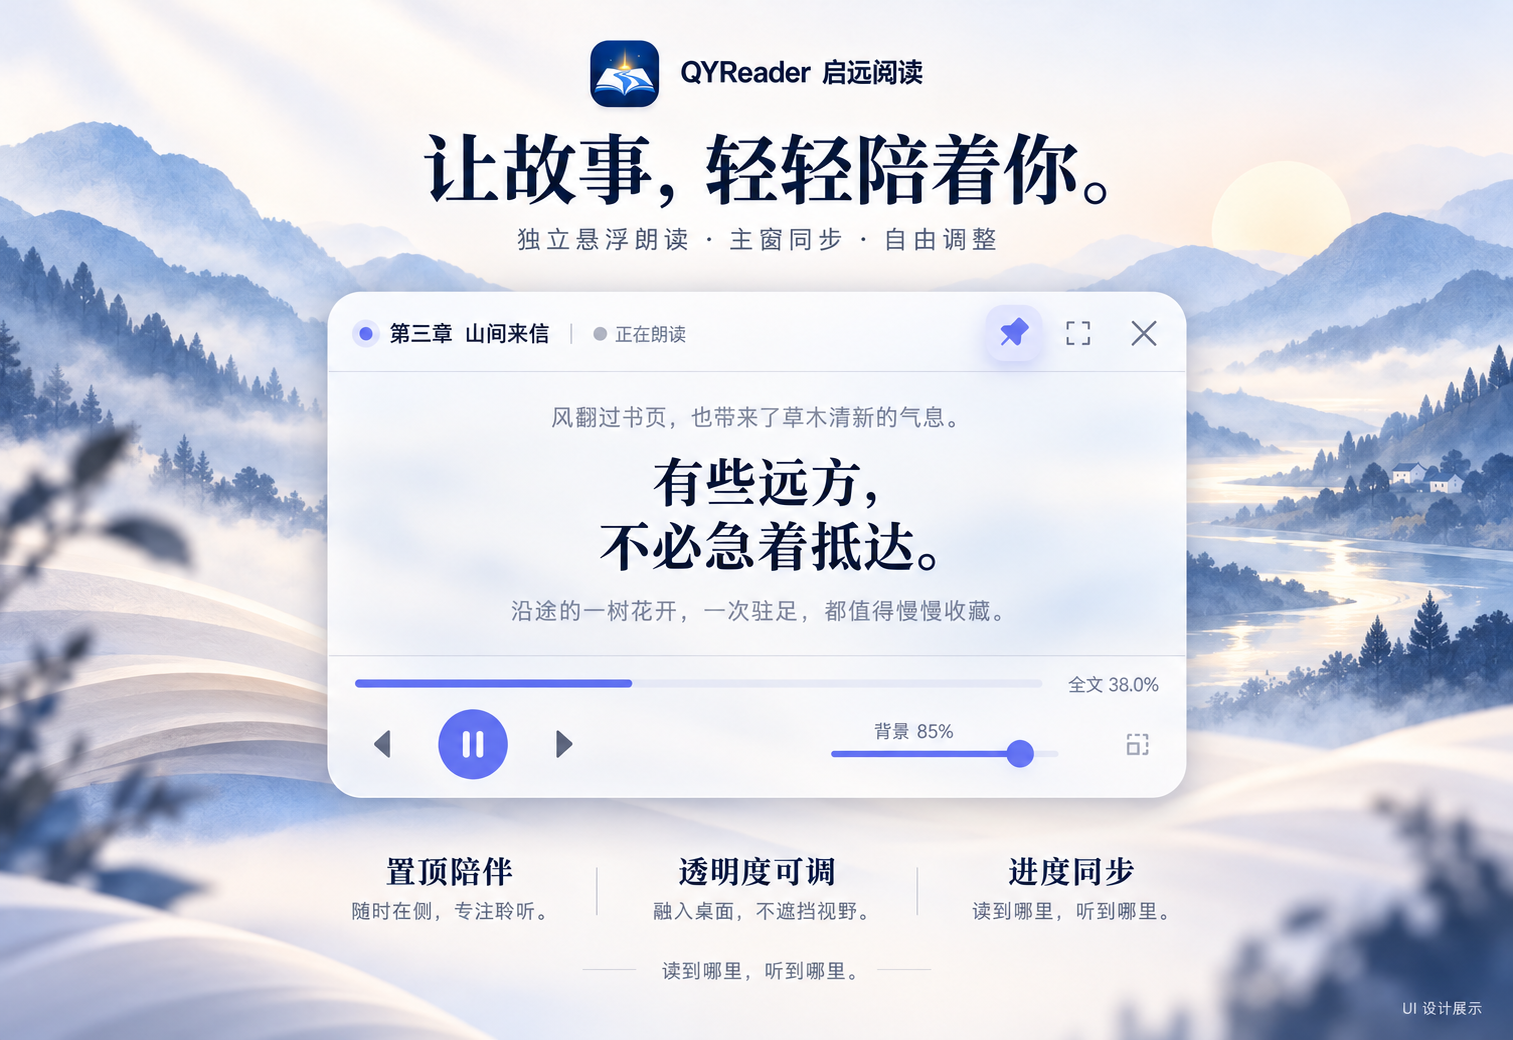
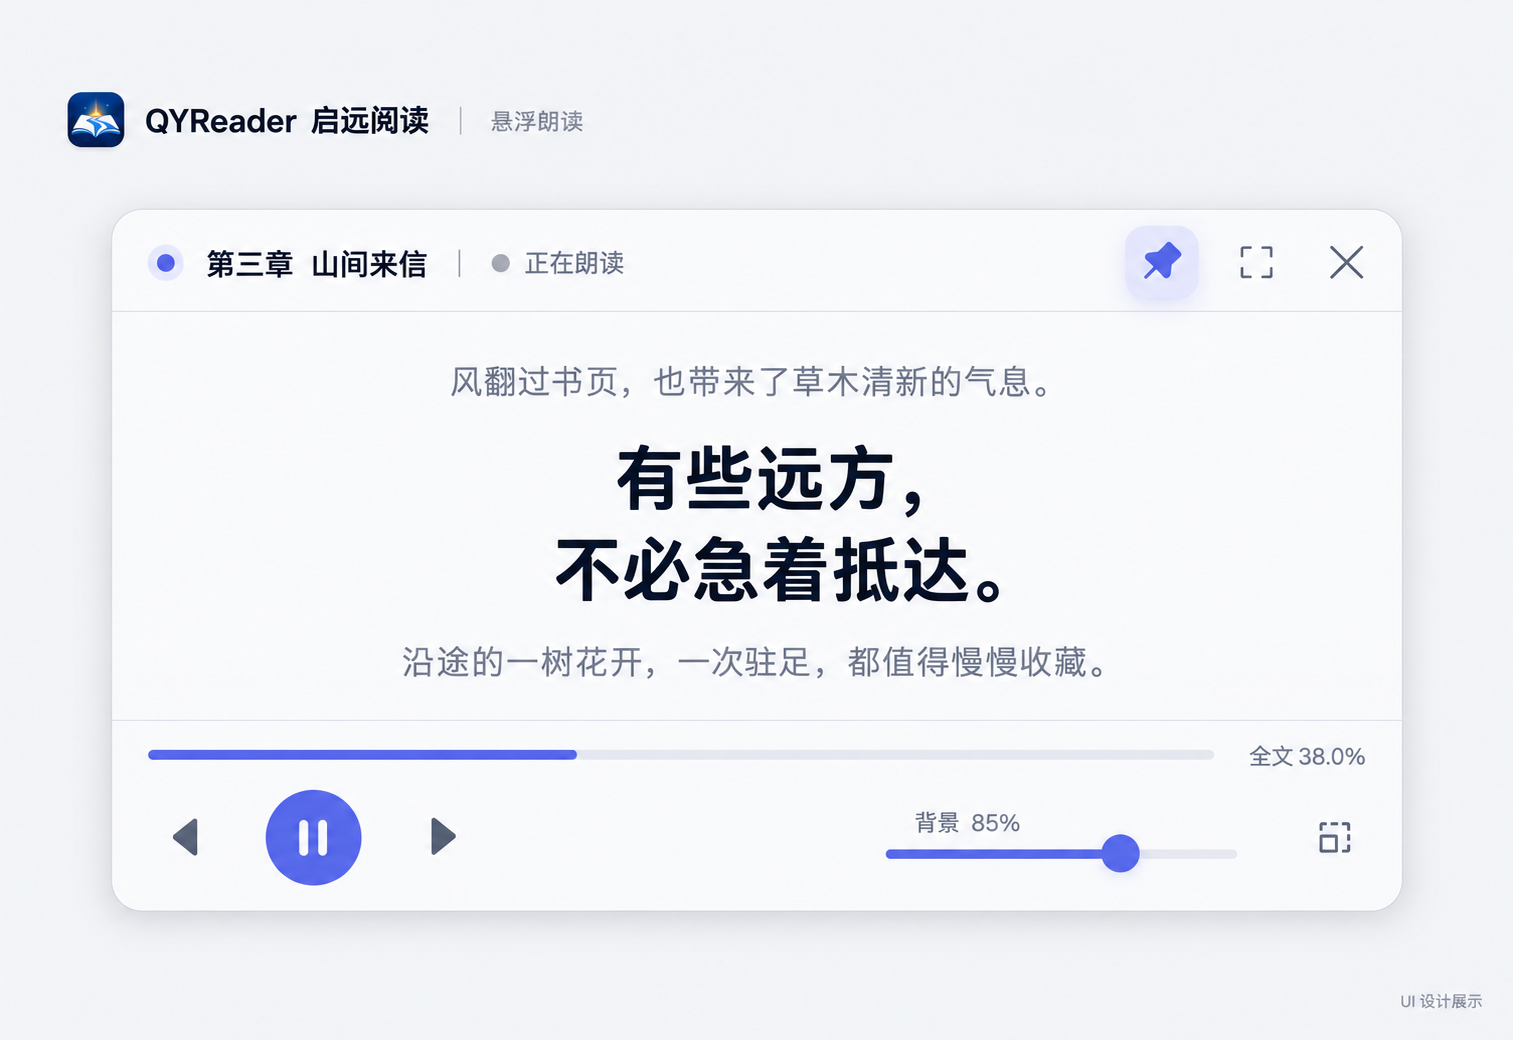
docs: simplify README showcases to highlight the app

diff --git a/docs/readme-ui-showcase-prompts.md b/docs/readme-ui-showcase-prompts.md
@@ -1,8 +1,52 @@
 # README UI 展示图生成记录
 
-生成日期：2026-10-22。使用内置 Image Gen，以原有截图、用户提供的纯正文悬浮窗截图和品牌图标为参考生成四张配套位图。
+## 当前版本：2026-10-27，以软件为主角
 
-这些图片是 macOS 风格的 UI 概念展示，并非当前 Windows 版本的实机截图。本次只更新展示图片与中英文 README，未实现图中的界面调整。
+根据用户“背景太花哨，不符合 macOS 风格”和“重点是要突出软件”的反馈，使用内置 Image Gen 编辑原有四张展示图，替换原路径供中英文 README 共用。
+
+这些图片是 macOS 风格的 UI 概念展示，并非当前 Windows 版本的实机截图。本次只更新展示图片、说明与生成记录，未实现图中的界面调整。
+
+### 本次统一设计约束
+
+- 外围背景采用接近 `#F3F4F6` 的浅灰白中性色，去除山景、树林、日出、雾气、河流及书页装饰；书库内部的书籍封面作为内容保留。
+- 去掉大幅宣传标题、标语和功能说明行，顶部仅保留小尺寸品牌图标、名称和当前场景名称。
+- 放大软件窗口，书库和阅读页占画面约九成宽度；悬浮窗同样以大尺寸完整呈现，确保正文和控件清楚。
+- 采用正视构图、浅色窗口、轻阴影、细分隔线和克制的蓝紫色强调；保持整组图片的字体、边距及背景风格一致。
+- 保留原有功能和示例内容，不添加账号、云同步或 macOS 平台支持等声明；纯正文悬浮窗内仅有文字，无标题栏和播放控件。
+- 请求画布为 `1600 × 1100` 横向比例，最终 PNG 使用生成器原始输出尺寸，不拉伸或裁切。
+
+### 图片与参考关系
+
+| 输出文件 | 编辑参考 | 配套风格参考 |
+| --- | --- | --- |
+| `assets/screenshots/library-showcase.png` | 原书库展示图、品牌图标 | 本次系列基准 |
+| `assets/screenshots/reader-showcase.png` | 原阅读展示图、品牌图标 | 本次新版书库图 |
+| `assets/screenshots/floating-reader-showcase.png` | 原悬浮控制窗展示图、品牌图标 | 本次新版书库图 |
+| `assets/screenshots/floating-reader-text-showcase.png` | 原纯正文展示图、品牌图标 | 本次新版悬浮控制窗图 |
+
+### 统一提示词要点
+
+```text
+Edit the referenced existing README showcase. SOFTWARE FIRST.
+Use a plain neutral #F3F4F6 background with no illustrated scenery,
+wallpaper, ornamental geometry, colored gradients or book-page decorations.
+Remove huge slogans; retain only compact top-left branding and a scene label.
+Make the complete software window the dominant subject, front-on, readable,
+with quiet macOS-inspired light surfaces, fine separators and a subtle shadow.
+Keep the existing functions, Chinese content and exact brand identity.
+For the library, keep illustrated covers only INSIDE the software.
+For the text-only floating reader, the panel must contain TEXT ONLY,
+without titlebar, icons, buttons, sliders, progress bars or resize controls.
+Match the new library showcase as the series style reference;
+match the new floating control window for the text-only variant.
+No new functionality and no macOS availability claim.
+```
+
+以下为旧版生成记录，保留供追溯；其中风景背景和大幅标题的要求已由上述当前设计约束取代。
+
+## 历史版本：2026-10-22
+
+使用内置 Image Gen，以原有截图、用户提供的纯正文悬浮窗截图和品牌图标为参考生成四张配套位图。
 
 ## 纯正文悬浮朗读
 

diff --git a/README.en.md b/README.en.md
@@ -10,7 +10,7 @@ The app icon depicts open book pages leading toward morning light. Deep blue rep
 
 ## UI design showcase
 
-These macOS-inspired UI concepts illustrate existing features; they are not screenshots of the current release. QYReader remains a Windows application. The artwork uses Chinese interface text.
+These macOS-inspired UI concepts put the software first, with neutral gray backgrounds, simple windows, and clear typography. They illustrate existing features and are not screenshots of the current release. QYReader remains a Windows application. The artwork uses Chinese interface text.
 
 **Keep the words you love close.** Bring files, pasted text, and web articles into a local library, organize by content type and reading status, and pick up where you left off.
 

diff --git a/README.md b/README.md
@@ -10,7 +10,7 @@
 
 ## UI 设计展示
 
-以下为基于现有功能制作的 macOS 风格 UI 概念展示图，非当前版本实机截图；应用仍面向 Windows。
+以下为基于现有功能制作的 macOS 风格 UI 概念展示图，以浅灰背景、简洁窗口和清晰排版突出软件本身，非当前版本实机截图；应用仍面向 Windows。
 
 **把喜欢的文字，留在身边。** 多格式文件、粘贴文本和网页正文汇入本地书库，按类型与阅读状态整理，随时继续阅读。
 
